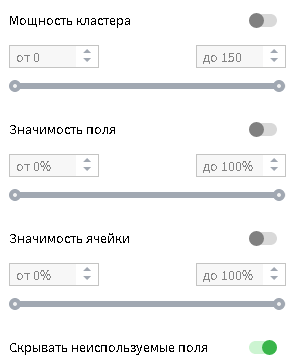
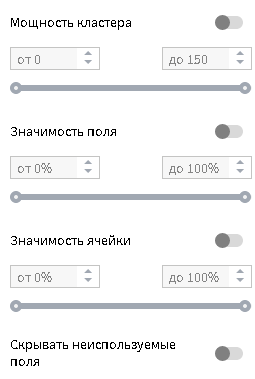
Исправление ошибок

diff --git a/visualization/cluster-profiles/main-table.md b/visualization/cluster-profiles/main-table.md
@@ -24,15 +24,18 @@
 1. Кластеры в строках:
    * **Метка поля** — метка поля из исходного набора данных;
 2. Кластеры в колонках:
-   * **Метка кластера** — порядковый номер кластера и колонку *Итого*, которая содержит общую информацию по кластерам, если для текущего индикатора общее значение можно рассчитать;
+   * **Метка кластера** — порядковый номер кластера и колонка *Итого*, которая содержит общую информацию по кластерам, если для текущего индикатора общее значение можно рассчитать;
    * **Поддержка** — отношение количества строк данных в кластере к общему числу строк данных..
 
 ## Действия в таблице
 
-* **Одиночная сортировка** — по клику по заголовку сортирует колонку по текущему индикатору, также тип сортировки можно выбрать через заголовочное меню выбранной колонки;
-* **Перетаскивание колонок** — позволяет менять расположение колонок друг относительно друга, для этого необходимо зажать левую кнопку мыши на метке колонки, которую необходимо перетащить, затем переместить курсор мыши в нужное место и отпустить левую кнопку мыши;
-* **Закрепление/открепление колонки** — для закрепления/открепления колонки необходимо в заголовочном меню колонки выбрать пункт меню *Снять закрепление столбца* или *Закрепить столбец*;
-* **Сокрытие/отображение столбцов легенды** — для сокрытия/отображения столбцов легенды необходимо в их заголовочном меню выбрать пункт меню *Столбцы* и снять/установить галочки на столбцах, которые необходимо скрыть или показать;
+* **Одиночная сортировка** — сортировать колонку по текущему индикатору. Тип сортировки можно выбрать двумя способами: через заголовочное меню выбранной колонки по клику на кнопку ![Раскрыть](../../images/icons/toolbar-controls/down_default.svg) и непосредственным кликом на колонку. При клике на колонку сортировка циклически меняется между следующими типами:
+  * По возрастанию;
+  * По убыванию;
+  * Без сортировки.
+* **Перетаскивание колонок** — смена расположения колонок друг относительно друга, для этого необходимо зажать левую кнопку мыши на метке колонки, которую необходимо перетащить, затем переместить курсор мыши в нужное место и отпустить левую кнопку мыши;
+* **Закрепление/открепление колонки** — закрепить/открепить колонку, для этого необходимо в заголовочном меню колонки по клику на кнопку ![Раскрыть](../../images/icons/toolbar-controls/down_default.svg)выбрать пункт меню *Снять закрепление столбца* или *Закрепить столбец*;
+* **Сокрытие/отображение столбцов легенды** — показать/скрыть столбцы легенды, для этого необходимо в их заголовочном меню по клику на кнопку ![Раскрыть](../../images/icons/toolbar-controls/down_default.svg) выбрать пункт меню *Столбцы* и снять/установить галочки на столбцах, которые необходимо скрыть или показать;
 * **Выделение ячеек** — для выделения ячейки таблицы необходимо кликнуть по ячейке. Есть 2 режима выделения:
     * **Одиночное** — сбрасывает все существующее выделение и выделяет только текущую ячейку. Выделение можно перемещать с помощью кнопок клавиатуры %kbd Up %, %kbd Down %, %kbd Left %, %kbd Right %.
     * **Множественное** — выделяет сразу несколько ячеек, для множественного выделения необходимо при клике зажать клавишу %kbd Ctrl %, которая добавляет в выделение ячейку или удаляет ячейку из него. Если выделено несколько ячеек, то возможна смена текущего поля:
@@ -45,8 +48,8 @@
 
 Гистограммы содержат 3 типа столбцов:
 
-1. **Null столбец** — присутствует у гистограмм, если поле содержит пропуски;
-2. **Основные столбцы** — у дискретных гистограмм — столбцы, у непрерывных — сплошная заливка под непрерывной гладкой кривой;
-3. **Столбец "Прочие"** — присутствует у дискретных гистограмм, если столбцы данных не помещаются в ячейку. Аккумулирует все значения не уместившихся столбцов.
+1. **Null столбец** — столбец с пропусками в дискретных гистограммах. Видимость столбца можно изменить с помощью кнопки "Показывать null столбец в гистограммах" на [панели инструментов](./toolbar.md);
+2. **Основные столбцы** — гистограмма, отображающая столбцы у дискретных гистограмм и сплошная заливка под непрерывной гладкой кривой у непрерывных;
+3. **Столбец "Прочие"** — столбец с аккумулированными значениями не уместившихся столбцов в дискретных гистограммах.
 
 >Примечание: Текущее ограничение на количество столбцов для дискретной гистограммы в ячейке — 12.

diff --git a/visualization/cluster-profiles/comparison-panel.md b/visualization/cluster-profiles/comparison-panel.md
@@ -4,13 +4,14 @@
 
 ![Панель сравнения кластеров.](./images/cluster-profilies-comparison-panel.png)
 
-Панель разделена надвое (см. Рис 1):
+Панель разделена на две части (см. Рис 1):
 
-1. **Верхняя часть панели** — в верхней части панели находится сравнительная гистограмма кластеров, в одной области совмещены гистограммы кластеров и генеральной совокупности. Верхняя часть панели содержит единственную настройку гистограммы в дополнении к общим настройкам гистограмм на [панели инструментов](./toolbar.md):
-   * **Накопительная диаграмма** — в этом режиме столбцы вместо наложения друг на друга складываются в один составной столбец, разбитый на цветные области, соответствующие кластерам.
-2. **Нижняя часть панели** — в нижней части панели находится сводная таблица значений индикаторов по выбранным кластерам в основной таблице.
+1. **Верхняя часть панели** — содержит сравнительную гистограмму кластеров, в одной области совмещены гистограммы кластеров и генеральной совокупности. Верхняя часть панели содержит единственную настройку гистограммы в дополнении к общим настройкам гистограмм на [*Панели инструментов*](./toolbar.md):
+   * **Накопительная диаграмма** — отображает один составной столбец, разбитый на цветные области, соответствующие кластерам.
+2. **Нижняя часть панели** — содержит сводную таблицу значений индикаторов по выбранным кластерам в основной таблице.
 
 >Примечание: Если одновременно включен режим "Накопительная гистограмма" и выбрана ячейка кластера "Итого", то в данные из этого не будут добавлены в накопительную гистограмму (поскольку они соответствуют генеральной совокупности).
+
 
 >Примечание: Режим "Накопительная гистограмма" может быть включен, когда гистограммы имеют формат "Абсолютные частоты" или "Относительные частоты", в формате "Плотность вероятности" опция отключается и недоступна.
 
@@ -21,9 +22,10 @@
   * **№** — номер уникального значения.
   *  **Метка** — метка уникального значения.
   *  **Доля** — колонка с столбцами горизонтальной гистограммы.
-  *  **Итого** — колонка с количеством значений в колонках гистограммы генеральной совокупности. Отображается при включенной опции "Показывать генеральную совокупность в гистограммах".
-  *  Колонки с количеством значений в колонках гистограмм кластеров. Имеют цветные заголовки.
+  *  **Итого** — колонка с количеством значений в колонках гистограммы генеральной совокупности. Отображается при включенной опции "Показывать генеральную совокупность в гистограммах" в *Панели инструментов*.
+  *  **Метка кластера** — колонки с количеством значений в колонках гистограмм кластеров.
 
 >Примечание: Все колонки, кроме колонки "Доля", можно сортировать.
+
 
 >Примечание: Дискретная гистограмма не отображается для числа уникальных значений >10000.

diff --git a/visualization/cluster-profiles/toolbar.md b/visualization/cluster-profiles/toolbar.md
@@ -2,13 +2,13 @@
 
 Содержит следующие управляющие элементы:
 
-* **Фильтрация** — показать/скрыть [панель фильтрации](./filter-panel.md).
-* **Детализация** — показать/скрыть панель детализации.
+* **Фильтрация** — показать/скрыть [*Панель фильтрации*](./filter-panel.md).
+* **Детализация** — показать/скрыть [*Панель детализации*](./details.md).
 * **Способ детализации** — переключить варианты отображения детализации:
   * Таблица;
   * Форма;
   * Статистика.
-* **Индикатор** — переключить варианты отображения индикаторов. При нажатии на кнопку происходит циклическая смена индикаторов, также индикатор можно переключить в выпадающем меню при нажатии на кнопку. Список индикаторов:
+* **Индикатор** — переключить варианты отображения индикаторов. При нажатии на кнопку происходит циклическая смена индикаторов, также индикатор можно переключить в выпадающем меню при нажатии на кнопку ![Раскрыть](../../images/icons/toolbar-controls/down_default.svg). Список индикаторов:
   * Значимость;
   * Гистограмма;
   * Минимум;
@@ -22,7 +22,7 @@
   * Количество уникальных значений;
   * Центры кластеров.
 * **Значимость цветом** — показать/скрыть значимость как тепловую карту. Данная опция сбрасывается и становится неактивной, когда выбран индикатор "Гистограмма".
-* **Показывать null столбец в гистограммах** — показать/скрыть null столбец. В гистограммах [основной таблицы](./main-table.md) и панели сравнения изменяется видимость столбца с пропусками.
+* **Показывать null столбец в гистограммах** — показать/скрыть null столбец. В гистограммах [*Основной таблицы*](./main-table.md) и панели сравнения изменяется видимость столбца с пропусками.
 * **Показывать столбец "Прочие" в гистограммах** — показать/скрыть столбец "Прочие". В дискретных гистограммах основной таблицы изменяется видимость столбца "Прочие".
 * **Показывать генеральную совокупность в гистограммах** — показать/скрыть [генеральную совокупность](https://wiki.loginom.ru/articles/general-population.html).
 * **Масштабирование гистограмм** — переключить режим масштабирования гистограмм. При нажатии на кнопку происходит циклическая смена режимов масштабирования гистограмм, также режим можно переключить в выпадающем меню при нажатии на кнопку. Список режимов масштабирования:

diff --git a/visualization/cluster-profiles/README.md b/visualization/cluster-profiles/README.md
@@ -1,6 +1,6 @@
 # ![](../../images/icons/components/cluster-profiles_default.svg) Профили кластеров
 
-*Профили кластеров* — этот визуализатор позволяет определить структуру формирования группы кластеров, отображает общую статистику по кластерам и позволяет сравнить их между собой.
+*Профили кластеров* — этот визуализатор позволяет определить структуру кластеров и сравнить их между собой, отображает общую статистику по кластерам.
 
 ## Интерфейс
 
@@ -13,7 +13,7 @@
 1. **[Основная таблица](./main-table.md)** — отображает информацию о паре <кластер, поле>;
 2. **[Панель фильтрации](./filter-panel.md)** — содержит настройки фильтрации *Основной таблицы*;
 3. **[Панель сравнения кластеров](./comparison-panel.md)** — содержит сравнительную информацию по кластерам, выделенным в *Основной таблице*;
-4. **[Детализация](./details.md)** — отображает данные исходного набора данных,отфильтрованные по выделенным в *Основной таблице* кластерам;
-5. **[Панель инструментов](./toolbar.md)** — настройка отображаемых данных.
+4. **[Панель инструментов](./toolbar.md)** — настройка отображаемых данных;
+5. **[Детализация](./details.md)** — отображает данные исходного набора данных, отфильтрованные по выделенным в *Основной таблице* кластерам;
 
 >Примечание: *Панель фильтрации*, *Панели сравнения кластеров* и *Детализацию* можно изменить в размерах, если потянуть за линию разделитель левой кнопкой мыши. При двойном щелчке по линии разделителю или одинарном по середине линии, область будет скрыта.

diff --git a/visualization/cluster-profiles/filter-panel.md b/visualization/cluster-profiles/filter-panel.md
@@ -10,6 +10,8 @@
 * **Значимость поля** — мера влияния поля на попадание поля в некоторый кластер. Задает диапазон от 0 до 100%.
 * **Значимость ячейки** — мера влияния ячейки на попадание ячейки в некоторый кластер. Задает диапазон от 0 до 100%.
 
-Помимо настроек диапазонов есть флажок *Скрывать неиспользуемые поля*, который скрывает неиспользуемые в кластеризации поля (их значимость не определена).
+Помимо настроек диапазонов есть флажок:
+
+**Скрывать неиспользуемые поля** — скрыть неиспользуемые в кластеризации поля (их значимость не определена).
 
 >Примечание: Непрошедшие фильтр ячейки имеют измененный стиль в таблице. Применение фильтра может привести к сокрытию колонки/строки, если все составляющее ее ячейки не прошли фильтр.

diff --git a/SUMMARY.md b/SUMMARY.md
@@ -217,8 +217,8 @@
     * [Основная таблица](./visualization/cluster-profiles/main-table.md)
     * [Панель фильтрации](./visualization/cluster-profiles/filter-panel.md)
     * [Панель сравнения кластеров](./visualization/cluster-profiles/comparison-panel.md)
-    * [Детализация](./visualization/cluster-profiles/details.md)
     * [Панель инструментов](./visualization/cluster-profiles/toolbar.md)
+    * [Детализация](./visualization/cluster-profiles/details.md)
 * [Отчеты](./report/README.md)
 * [Данные](./data/README.md)
   * [Типы данных](./data/datatype.md)
